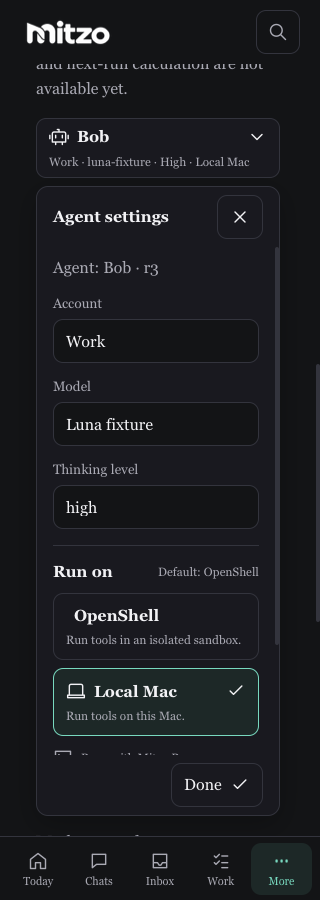
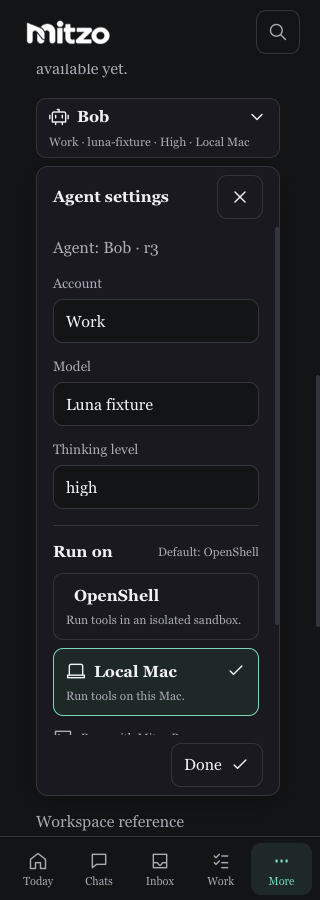
fix: retain touch target height for native task selects

diff --git a/tests/offline/agent-library.spec.ts b/tests/offline/agent-library.spec.ts
@@ -256,6 +256,13 @@ test('edits and publishes named agents while preserving Agents navigation', asyn
   await expect(page.getByRole('tab', { name: 'Tasks & schedules', exact: true })).toBeVisible();
   await expect(page.getByRole('button', { name: /Use in Symposium/ })).toHaveCount(0);
   await page.getByRole('button', { name: 'Assign task', exact: true }).click();
+  for (const label of ['Agent profile', 'Schedule', 'Notifications']) {
+    expect(
+      await page
+        .getByRole('combobox', { name: label, exact: true })
+        .evaluate((element) => element.getBoundingClientRect().height),
+    ).toBeGreaterThanOrEqual(44);
+  }
   await page.getByLabel('Task name', { exact: true }).fill('Retained task');
   await page
     .getByLabel('Objective', { exact: true })

diff --git a/frontend/src/styles/agent-library.css b/frontend/src/styles/agent-library.css
@@ -265,7 +265,9 @@
   min-height: 0;
   padding: 0;
 }
-.agent-library-context-recipe select {
+/* Native WebKit selects need an explicit height to retain touch targets. */
+.agent-library-context-recipe select,
+.agent-task-fields > label > select {
   padding: var(--space-2) var(--space-3);
   height: max(var(--control-height), calc(1.5em + var(--space-2) + var(--space-2) + 2px));
 }

diff --git a/docs/design/ui-design-system.md b/docs/design/ui-design-system.md
@@ -757,3 +757,9 @@ They render the actual page, shells and controls using intercepted data only.
 The 320px settings body scrolls while Close/Done remain reachable above navigation;
 Escape restores summary focus. Save failure/reload retries retain identical input,
 profile ID/revision/hash, selected account, model/thinking and target.
+
+Task-local working copies also retain incomplete model choices when another task
+is opened. A newer saved task revision leaves those choices intact until explicit
+Reload saved task; catalog hydration/review changes no task revision or retry key.
+Native task selects reuse the context editor's explicit token-based height because
+WebKit ignores their minimum height; offline geometry checks require 44px targets.
